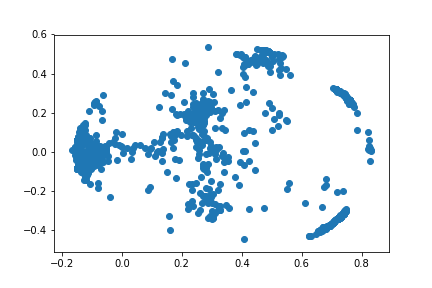
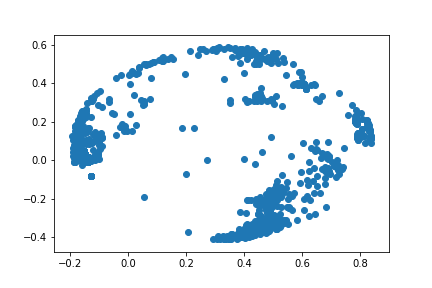
Data cleaning and gyroscope figures

diff --git a/src/features/basic_data_cleaning.py b/src/features/basic_data_cleaning.py
@@ -5,7 +5,7 @@ import pandas as pd
 
 class BasicCleaning:
     @classmethod
-    def CleanData(cls, path_to_data):
+    def CleanData(cls, path_to_data, var):
         data_set = pd.read_csv(path_to_data, sep=',')
         
         # Convert string to datetime
@@ -14,11 +14,14 @@ class BasicCleaning:
         # filter data by date
         data_set = data_set[(data_set['TimeStemp'] > '2016-04-30 00:00:00') & \
                             (data_set['TimeStemp'] <= '2016-05-01 23:59:59')]
+        
+        data_set = data_set [[column for column in data_set if var in column and column.endswith("MEAN")]]
+
 
         # Remove strings columns
-        for column in data_set:
-            if type(data_set[column][0]) is str:
-                data_set = data_set.drop(column, axis=1)
+       # for column in data_set:
+       #     if type(data_set[column][0]) is str:
+       #         data_set = data_set.drop(column, axis=1)
         
         # Remove columns with all null values
         for column in data_set:
@@ -32,6 +35,6 @@ class BasicCleaning:
         data_set = data_set.dropna()
         
         # Remove version, because 2.3.3 is not a valid float value and PCA could fail
-        data_set = data_set.drop('Version', axis=1)
+       # data_set = data_set.drop('Version', axis=1)
         
         return data_set

diff --git a/src/visualization/visualize_dataset.py b/src/visualization/visualize_dataset.py
@@ -1,7 +1,7 @@
 from common_clustering import CommonClustering
 
-clustering_features = CommonClustering(r'C:\Users\ivangarrera\Desktop\T2_cleaned.csv')
-#clustering_features = CommonClustering('D:\Ing. Informatica\Cuarto\Machine Learning\T2_cleaned_magneticField.csv')
+#■clustering_features = CommonClustering(r'C:\Users\ivangarrera\Desktop\T2_cleaned.csv')
+clustering_features = CommonClustering('D:\Ing. Informatica\Cuarto\Machine Learning\T2_cleaned_gyroscope.csv')
 
 attr = list(clustering_features.data_set)[0][:list(clustering_features.data_set)[0].find('_')]
 clustering_features.attr = attr
@@ -30,6 +30,7 @@ ax = Axes3D(fig)
 ax.scatter(data_set_labels_mean.values[:,0], 
            data_set_labels_mean.values[:,1], 
            data_set_labels_mean.values[:,2])
+plt.savefig(r'../../reports/figures/centroids3D_{}.png'.format(attr))
 plt.show()
 
 # Agglomerative clustering algorithm using nearest neighbors matrix

diff --git a/src/features/data_cleaning_accelerometer.py b/src/features/data_cleaning_accelerometer.py
@@ -1,9 +1,10 @@
 from basic_data_cleaning import BasicCleaning
 
 # Read csv and clean data
-data_set = BasicCleaning.CleanData(path_to_data=r'C:\Users\ivangarrera\Desktop\T2.csv')
 
-data_set = data_set [[column for column in data_set if "Accelerometer" in column and column.endswith("MEAN")]]
+#data_set = BasicCleaning.CleanData(path_to_data=r'C:\Users\ivangarrera\Desktop\T2.csv',var="Accelerometer")
+data_set = BasicCleaning.CleanData(path_to_data=r'D:\Ing. Informatica\Cuarto\Machine Learning\T2.csv',var="Accelerometer")
 
-data_set.to_csv(r'C:\Users\ivangarrera\Desktop\T2_cleaned.csv', 
-                sep=',', index=False)
+
+#data_set.to_csv(r'C:\Users\ivangarrera\Desktop\T2_cleaned.csv',sep=',', index=False)
+data_set.to_csv(r'D:\Ing. Informatica\Cuarto\Machine Learning\T2_cleaned_accelerometer.csv',sep=',', index=False)

diff --git a/src/features/data_cleaning_gyroscope.py b/src/features/data_cleaning_gyroscope.py
@@ -1,10 +1,10 @@
 from basic_data_cleaning import BasicCleaning
 
 
-data_set = BasicCleaning.CleanData(path_to_data=r'C:\Users\ivangarrera\Desktop\T2.csv')
+#data_set = BasicCleaning.CleanData(path_to_data=r'C:\Users\ivangarrera\Desktop\T2.csv')
+data_set = BasicCleaning.CleanData(path_to_data=r'D:\Ing. Informatica\Cuarto\Machine Learning\T2.csv',var="Gyroscope")
 
-data_set = data_set[[column for column in data_set if \
-                          "Gyroscope" in column and column.endswith("MEAN") ]]
 
-data_set.to_csv(r'C:\Users\ivangarrera\Desktop\T2_cleaned.csv',
-                sep=',', index=False)
+
+#data_set.to_csv(r'C:\Users\ivangarrera\Desktop\T2_cleaned.csv',sep=',', index=False)
+data_set.to_csv(r'D:\Ing. Informatica\Cuarto\Machine Learning\T2_cleaned_gyroscope.csv',sep=',', index=False)

diff --git a/src/visualization/common_clustering.py b/src/visualization/common_clustering.py
@@ -20,7 +20,9 @@ class CommonClustering:
         scaler = preprocessing.MinMaxScaler()
         data_norm = scaler.fit_transform(self.data_set)
         
-        self.reduced_data = PCA(n_components=num_components).fit_transform(data_norm)
+        estimator = PCA(n_components=num_components)
+        self.reduced_data = estimator.fit_transform(data_norm)
+        print(estimator.explained_variance_ratio_)
         
         if plot_graph:
             plt.scatter(self.reduced_data[:,0], self.reduced_data[:,1])
